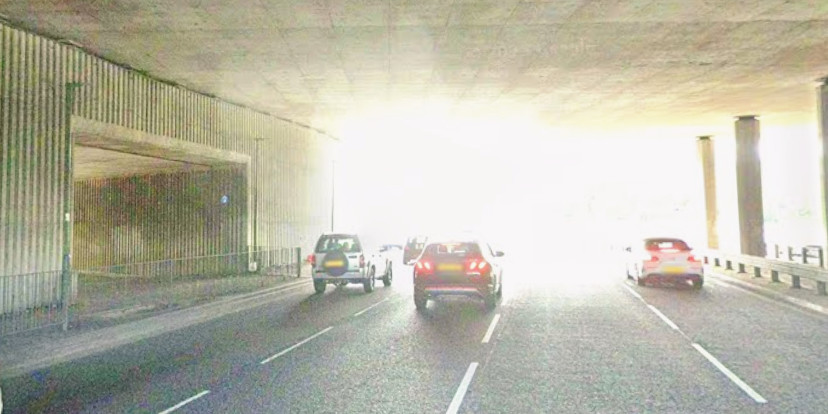
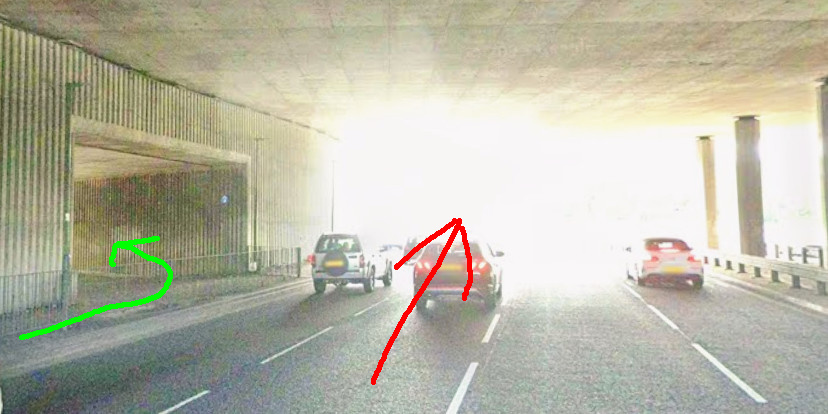
Updates

diff --git a/articles/move-fast-and-break-pavements/index.md b/articles/move-fast-and-break-pavements/index.md
@@ -9,7 +9,7 @@ tags:
   - openstreetmap
 ---
 
-While never really catching up for cars, OpenStreetMap used to be _the best_ place for pedestrian mapping and routing over the past few decades. All sorts of footpaths and cut-throughs which were never added to Google Maps have been dilligently mapped by enthusiastic locals who know their areas like the backs of their hands, and were willing to go out - with GPS receivers, back when phones weren't reliable enough - then add in the tracks, tagging thm as appropriate. This made OsmAnd, my choice of pedestrian navigation app, incredibly effective at plotting efficient routes through cities. By contrast, Google Maps would tend to send you down pollution corridors - large, arterial roads and the like - because Google generally maps the UK by car only.
+While never really catching up for cars, OpenStreetMap used to be _the best_ place for pedestrian mapping and routing over the past few decades. All sorts of footpaths and cut-throughs which were never added to Google Maps have been dilligently mapped by enthusiastic locals who know their areas like the backs of their hands, and were willing to go out - with GPS receivers, back when phones weren't reliable enough - then add in the tracks, tagging them as appropriate. This made OsmAnd, my choice of pedestrian navigation app, incredibly effective at plotting efficient routes through cities. By contrast, Google Maps would tend to send you down pollution corridors - large, arterial roads and the like - because Google generally maps the UK by car only.
 
 This has started to change, due mainly to a well-intentioned push to add detail which is, nethertheless, corrupting OpenStreetMap.
 
@@ -18,7 +18,7 @@ This has started to change, due mainly to a well-intentioned push to add detail 
 <img class="img-fluid" src="images/navigating-between-the-gaps.png" alt="Using cut-throughs speeds up pedestrian routing">
 <p class="caption text-muted">Using cut-throughs speeds up pedestrian routing</p>
 
-Above is a good example of how OpenStreetMap can outpace Google Maps for pedestrians - this route between two locations near my old house is marked as 20 minutes on Google Maps, while only being 12 minutes on OpenStreetMap. You might say to me _"Well James, Google Maps clearly has that cut-through as well"_ and YES, dear reader, IT DOES NOW! But despite Google knowing that I lived there at the time, they repeately refused attempts by me to add the damned thing! Such is the arbitrary nature of Google Maps - edits can be stuck pending, or refused outright, based on a very aggravating and opaque "computer says no".
+Above is a good example of how OpenStreetMap can outpace Google Maps for pedestrians - this route between two locations near my old house is marked as 20 minutes on Google Maps, while only being 12 minutes on OpenStreetMap. You might say to me _"Well James, Google Maps clearly has that cut-through as well"_ and YES, dear reader, IT DOES NOW! But despite Google knowing that I lived there at the time, they repeately refused attempts by me to add the damned thing! Such is the arbitrary nature of Google Maps - edits can be stuck pending, or refused outright, based on a very aggravating and opaque process.
 
 This is where OpenStreetMap really shines - locals adding little bits here and there, that flesh out the map with their local understanding of the area. Let's look at some current examples of these which still haven't been added to Google Maps:
 
@@ -37,8 +37,8 @@ Or at least it *did*.
 
 # A modern OpenStreetMap loss for pedestrians
 
-<img class="img-fluid" src="images/navigating-between-the-gaps.png" alt="Using cut-throughs speeds up pedestrian routing">
-<p class="caption text-muted">Using cut-throughs speeds up pedestrian routing</p>
+<img class="img-fluid" src="images/navigating-a-sidewalk.png" alt="A clue as to the issue">
+<p class="caption text-muted">A clue as to the issue</p>
 
 Above is the same example as earlier, except I moved the starting point north of Shenley Fields Road (previously it was on the south). Notice the weird bit where it goes too far along the road before coming back on itself? Let's zoom in there:
 
@@ -60,47 +60,74 @@ Shenley Fields Road is a simple road with a small grass verge separating the car
 <img class="img-fluid" src="images/i-just-want-to-see-my-friends.png" alt="A large detour, this is actually a 4 minute walk">
 <p class="caption text-muted">A large detour, this is actually a 4 minute walk</p>
 
-This route takes four minutes to walk, but with the sidewalks added this increases to twelve minutes - three times the length - and not on busy roads at all. Now looking at the map you might realise immediately that something is up, but if you were just looking for journey times you would be sorely misinformed about the length of this trip. Worse, we lose lovely little shortcuts such as this one:
+This route takes four minutes to walk, but with the sidewalks added this increases to twelve minutes - *three times the length* - and not on busy roads at all. Now looking at the map you might realise immediately that something is up, but if you were just looking for journey times you would be sorely misinformed about the length of this trip - and overwhelmed by any series of directions to get you there!
+
+Closer to my heart, we also lose lovely little shortcuts such as this one, as the map ironically now glues you to the road:
 
 <img class="img-fluid" src="images/longcut.png" alt="Marooned by sidewalks, here we're taking the long way around">
 <p class="caption text-muted">Marooned by sidewalks, here we're taking the long way around</p>
 
-# So what changed?
+# When more detail is less detailed
 
-If we look closer we can see some clear problems here:
+Let's consider what happened here. First, let's look at a representation of an aerial view with no mapping applied.
 
-<img class="img-fluid" src="images/no-crossing.png" alt="No crossing added at the junction">
-<p class="caption text-muted">No crossing added at the junction, possibly because the other sidewalk wasn't added</p>
+<img class="img-fluid" src="images/no-mapping.png" alt="Aerial view of some houses and streets, with no mapping applied">
+<p class="caption text-muted">Aerial view of some houses and streets, with no mapping applied</p>
 
-<img class="img-fluid" src="images/half-connection.png" alt="Connections to the road but not the other sidewalk">
-<p class="caption text-muted">Connections to the road but not the other sidewalk</p>
+And then let's fast-forward to the "golden age" - where roads had been added to most roads in the UK, and the "cut-through" footpaths were starting to be added in:
 
-<img class="img-fluid" src="images/no-connection.png" alt="Ways not connected up">
-<p class="caption text-muted">Ways not connected up (there's no obvious reason for this)</p>
+<img class="img-fluid" src="images/integrated-mapping.png" alt="Roads applied in green, footpaths applied in dashed red, pedestrian routing in blue">
+<p class="caption text-muted">Roads applied in green, footpaths applied in dashed red, pedestrian routing in blue</p>
 
-Unfortunately this is a very common occurence with separated sidewalks - and unlike other features in OSM, unless they're added carefully, they make the map worse than before they were added. These are the ways that need to be added to (almost) match the pedestrian functionality in an integrated pavement:
+You can imagine that someone came along here and added the roads, and then someone else came along and added that little footpath (because they knew it was there). It was easy for them to add, too - just connect the footpath to both roads - and it improved the quality of the map! This golden age of little tweaks made pedestrian routing a joy.
 
-<img class="img-fluid" src="images/crossy-road.png" alt="A road with two junctions">
-<p class="caption text-muted">A road with two junctions</p>
+Now let's see what has happened in the era of separated sidewalk mapping, and how it affects the routing:
 
-This road has four classes of "way" (connections between points):
+<img class="img-fluid" src="images/separated-mapping.png" alt="Separated sidewalks in dashed red, crossings in dashed purple">
+<p class="caption text-muted">Separated sidewalks in dashed red, crossings in dashed purple</p>
 
- - The black lines are roads. These are the only ways that exist prior to separated sidewalks.
- - The blue lines are footpaths, mostly separated sidewalks. In some parts of the world these are all that exist, completely separated from any other way (and as such don't really cause much of a problem, unless they're somehow connected up at some point).
- - The green line is a marked crossing, which is often the only type of connection between sidewalks. These are often where a router will hop down to the road way, although the intention is to cross to the other sidewalk.
- - The yellow lines are "unmarked crossings", usually dropped kerbs (though in the UK pedestrians have right-of-way at junctions, so are often considered unmarked crossings even with the absence of a dropped kerb).
- - The red lines represent crossings that pedestrians are likely to take, although they are not technically crossings at all (a pedestrian would cross at any point along the road, but these crossing ways represent that well in most cases).
+This is a pretty typical example of separated sidewalk mapping (though note that it's better than many examples in the wild) - we've added a "footway" for every sidewalk on the road, and we've added in crossings where roads terminate at T-junctions. And we can see the problem - the router, now trying to follow these sidewalks, cannot "reach" the other side of roads! This results in the incredibly common "degrading" of the route down to the road, but note that because the footpath has now been hooked up to the separated sidewalks the router resolves to just "pretend to be a car".
 
-Even with all of these drawn in, routing can be a pain. For example, routing between the green and the purple building would be pretty representative, but between the green and the red building you would have to route along to the junction - this could be a short or a long detour! But in most cases these are just quirks, and if separated sidewalks were added with all of these ways included then there probably wouldn't be much of a problem. But since we don't, we have degraded functionality for pedestrians.
+# But James, we can fix this
 
-# What can we do about it?
+Pragmatically, we can absolutely fix this - by adding in "crossings" wherever a sidewalk meets a road:
 
-For now, this seems to be here to stay. A vocal group in the OSM community take a pretty extreme position on this - that a sidewalk must not be deleted if it exists, even if it's causing problems for map users - and that position seems to be taken as the status quo for the time being. The idea is that they will be improved over time, although many of the examples I gave above are now years old without any sign of improvement. Indeed, the focus seems to have been on remote mappers drawing in the basic structure of sidewalks based on aerial imagery, and in Manchester many of the newer separated sidewalks have been added in bulk through Meta's "Walkabout" Pedestrian Mapping Initiative (which focuses on "mapping with Al" to get more sidewalks laid down).
+<img class="img-fluid" src="images/complete-mapping.png" alt="The footpath and all the sidewalks now continue out across the road">
+<p class="caption text-muted">The footpath and all the sidewalks now continue out across the road</p>
 
-(I'd like to note here that the justification is mainly on accessibility grounds - that separated sidewalks are better for people e.g. in wheelchairs - but in practice the quality of the mapping is so poor it can't reasonably be relied on for accessible routing)
+But what I've done here is controversial in the OpenStreetMap world - the crossings I added don't really "exist", they're just being drawn in as shorthand for the road being crossable (arguably, [Mapping for the Router](https://wiki.openstreetmap.org/wiki/Tagging_for_the_router#Desire_paths)). Worse, the goal of separated sidewalks is often accessibility - but these crossings are not neccessarily accessible, and you can't easily indicate where they aren't (e.g. you can indicate a lowered or raised kerb, but [proposals for a "regular" kerb have been rejected](https://wiki.openstreetmap.org/wiki/Proposal:Kerb=regular)).
 
-This focus on quantity over quantity is possibly done in the hope that local mappers, annoyed with the map being degraded, will jump in and fix any problems - but the sheer quantity of work required as well as the knowledge that *it worked fine before* probably puts people off (as it puts me off). The pragmatic solution is to delete the badly mapped sidewalks entirely (and those with the interest in this sort of mapping to do it again in a way that is more neighbourly) but as noted, this probably isn't possible without getting into some nasty edit wars.
+It also requires a *lot* more rigour than the "golden age", where adding a footpath was simply connecting two roads up with a new way. Adding separate sidewalks to streets requires meticulous consideration of how pedestrians might use a road to ensure that the additions keep at least the same utility (and hopefully more!) than the previous, integrated examples.
 
-So I think the thing to do, for now, is to just be aware that this is a problem in tools that use OpenStreetMap. Keep an eye out for weird routes and study the map for shortcuts instead of relying on routers to do it for you.
+And this just doesn't work very well with the sort of project OpenStreetMap is. Mappers, by and large, aren't professionals - they're just scratching their own itches, iteratively improving the map for everyone as they improve it for themselves. 
 
-Mostly, try not to get back in a car. Walking is good, keep it up :)
+# Other solutions (which won't be discussed)
+
+* **Mapping only _some_ pavements.** Many people in the OSM community don't believe all sidewalks should be mapped at all, and instead we should stick to mapping only distinct geometry (e.g. where a sidewalk deviates from a road). Another approach is to only map separated sidewalks where they are alongside roads that are hard to cross (and so a diversion to a physical crossing is more useful).
+* **Bundling components of a road together.** OpenStreetMap was not really designed to express "complex ways" (one reason why lanes of a road aren't mapped) - an update to the underlying schema which allows for related ways to be grouped together - and so, routed between - would neatly solve many of the problems with separated sidewalks.
+* **Only mapping pavements in specific areas.** It is notable that separated sidewalks aren't *universally* bad. Paris is often called out as having good separate sidewalk mapping (which I understand to be down to their active local community), and in other parts of the world municipal datasets have been made available that allow for accurate large-scale imports. And of course, where "Jaywalking" is a crime, maybe the map should reflect only legal crossings!
+
+There isn't much appetite for any of this, however. Sidewalks have become an incredibly contentious subject in the OpenStreetMap community, where there is a consistent pattern of people raising issues with the status quo then being accused of acting in bad faith. This has been exacerbated by some "activist" mappers targeting the areas of people raising issues, adding (generally badly) separated sidewalks to their area.
+
+Worse, Facebook got involved.
+
+# The Meta problem
+
+Facebook's ["walkabout" initiative](https://wiki.openstreetmap.org/wiki/Organised_Editing/Activities/Meta/Pedestrian_Mapping) has been a particularly prolific source of poor quality sidewalk mapping. Their approach has been to "challenge" remote mappers to add them in, which is generally done using (fairly old) aerial imagery and (fairly sparse) [Mapillary](https://www.mapillary.com/) street views. This initiative has put down an overwhelming amount of sidewalk ways across Manchester, where I now live, leading to a noted degradation in pedestrian mapping in the city.
+
+<img class="img-fluid" src="images/tiny-little-pavement.png" alt="This bicycle is parked on a pavement, according to Facebook">
+<p class="caption text-muted">This bicycle is parked on a pavement, according to Facebook</p>
+
+The status quo in OpenStreetMap is that you cannot delete a sidewalk if it exists - you can only improve it. So if you find yourself in an area where separated sidewalks have been placed, your only option is to *"draw the rest of the owl"* - all the little connections that we talked about above, which make the map routable for pedestrians again. This was not really a big problem at first - individual volunteers could only do so much, so there was only so much to fix - but with initiatives like the walkabout whole cities were having large networks of sidewalks dropped down in short order, certainly more quickly than local mappers could object.
+
+And if you excuse the conspiratorial tone to this next bit: this is possibly by design.
+
+Or at least - the combination of a large glut of new, badly mapped sidewalk ways, combined with the drowning out of objections to the separated sidewalk mapping approach, seem to conspire to force local mappers to do the large amount of fixup work if they want their local maps to return to the functionality they previously had.
+
+# The Google solution
+
+Regardless of the intent, this probably isn't what's going to happen. I am a fairly avid supporter of free and open source software, but even I have been put off by this - and truth be told, I use Google Maps again now. They have caught up in many ways with the little routes OSM excelled at, and while I could "knuckle down" I don't really believe that OSM can muster the volunteer army necessary to make the current approach successful (at least, not outside of an externally sourced dataset).
+
+I think what I need to do is step back and consider things more holistically - I think that an open source map is valuable, and I'd like to contribute to that - but I think it's more valuable that I have a reliable walking map that keeps me from driving places, and I don't want to get in (more) arguments with people on the internet.
+
+In that sense, and for now, Google Maps is better for me.
